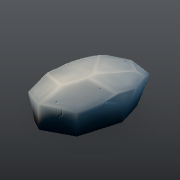
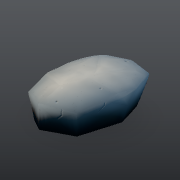
Rock presets for the new settings, and five new rocks
Existing rock presets are tuned for Blend, Dents, Layers and Overhang: Sharp
boulder stays crisp, River stone is as round as a rock gets, and Standing stone
and Low ledge get their hollows and bands. New presets: Round boulder, Overhang,
Cracked slab, Mossy rubble and Riverbank stones.

Rounder stones no longer draw a bright line along every edge, which was putting
the facets back in.

diff --git a/frontend/src/assets/trees/presets/index.ts b/frontend/src/assets/trees/presets/index.ts
@@ -307,17 +307,22 @@ const rockPresets: readonly TreePreset[] = [
     rock('Boulders', 'boulder', 'Boulder', 'Heavy, with stones at its feet', 401, {}),
     rock('Boulders', 'mossy-boulder', 'Mossy boulder', 'Old, with a green cap', 421, {width: 3.4, depth: 3, moss: 0.7, chunks: 3, faces: 0.8}),
     rock('Boulders', 'snowy-boulder', 'Snowy boulder', 'A cap of fresh snow', 422, {width: 3, height: 1.9, depth: 2.6, chunks: 3, faces: 0.7, moss: 0, snow: 0.7, palette: 'basalt'}),
-    rock('Boulders', 'split-boulder', 'Sharp boulder', 'Cut into hard faces', 403, {width: 2.8, height: 2.2, depth: 2.4, chunks: 2, faces: 0.8, cuts: 1, edges: 0.15, rounded: 0.25, moss: 0, palette: 'granite'}),
+    rock('Boulders', 'round-boulder', 'Round boulder', 'Worn smooth by time', 430, {width: 2.6, height: 1.8, depth: 2.3, chunks: 2, faces: 0.7, cuts: 0.3, edges: 1, rounded: 0.9, blend: 1, dents: 0.2, layers: 0.2, moss: 0.3}),
+    rock('Boulders', 'split-boulder', 'Sharp boulder', 'Cut into hard faces', 403, {width: 2.8, height: 2.2, depth: 2.4, chunks: 2, faces: 0.8, cuts: 1, edges: 0.15, rounded: 0.25, blend: 0.2, dents: 0, layers: 0, moss: 0, palette: 'granite'}),
     rock('Outcrops', 'grassy-outcrop', 'Grassy outcrop', 'Stepping up a slope', 410, {kind: 'outcrop', width: 6, height: 2.6, depth: 3.5, chunks: 5, moss: 0.85}),
-    rock('Outcrops', 'low-ledge', 'Low ledge', 'A long shelf of stone', 411, {kind: 'outcrop', width: 8, height: 1.3, depth: 3, chunks: 7, moss: 0.7, palette: 'slate'}),
+    rock('Outcrops', 'overhang', 'Overhang', 'Leaning out over its foot', 431, {kind: 'cliff', width: 7, height: 4, depth: 3.5, chunks: 8, faces: 0.5, overhang: 1, layers: 0.6, moss: 0.5}),
+    rock('Outcrops', 'low-ledge', 'Low ledge', 'A long shelf of stone', 411, {kind: 'outcrop', width: 8, height: 1.3, depth: 3, chunks: 7, moss: 0.7, layers: 0.6, palette: 'slate'}),
     rock('Stones', 'field-stone', 'Field stone', 'Knee high and blunt', 404, {width: 0.9, height: 0.5, depth: 0.7, chunks: 1, faces: 0.45, cuts: 0.5, moss: 0.3}),
     rock('Stones', 'damp-stone', 'Damp stone', 'Wet, with moss on its shady side', 413, {width: 1.1, height: 0.7, depth: 0.9, chunks: 2, faces: 0.5, cuts: 0.45, moss: 0.75, mossFrom: 'shade', wet: 0.5, palette: 'slate'}),
-    rock('Stones', 'river-stone', 'River stone', 'Worn nearly round', 405, {width: 0.7, height: 0.25, depth: 0.5, chunks: 1, faces: 0.7, cuts: 0.2, edges: 1, moss: 0, palette: 'slate'}),
-    rock('Stones', 'step-stone', 'Stepping stone', 'A flat slab for a path', 412, {width: 1, height: 0.14, depth: 0.8, chunks: 1, faces: 0.35, cuts: 0.45, moss: 0, variation: 0.3}),
-    rock('Stones', 'standing-stone', 'Standing stone', 'Tall and old', 406, {kind: 'pillar', width: 1, height: 3, depth: 0.7, chunks: 1, moss: 0.35}),
+    rock('Stones', 'river-stone', 'River stone', 'Worn nearly round', 405, {width: 0.7, height: 0.25, depth: 0.5, chunks: 1, faces: 0.7, cuts: 0.2, edges: 1, rounded: 0.85, blend: 1, dents: 0, layers: 0, moss: 0, palette: 'slate'}),
+    rock('Stones', 'step-stone', 'Stepping stone', 'A flat slab for a path', 412, {width: 1, height: 0.14, depth: 0.8, chunks: 1, faces: 0.35, cuts: 0.45, moss: 0, variation: 0.3, dents: 0.5, layers: 0}),
+    rock('Stones', 'cracked-slab', 'Cracked slab', 'Split across, lying low', 432, {width: 2.4, height: 0.45, depth: 1.8, chunks: 1, faces: 0.4, cuts: 0.4, cracks: 0.8, moss: 0, layers: 0.5, palette: 'slate'}),
+    rock('Stones', 'mossy-rubble', 'Mossy rubble', 'A heap of stones, green on the shady side', 433, {width: 1.6, height: 0.6, depth: 1.4, chunks: 3, faces: 0.6, rubble: 0.65, moss: 0.8, mossFrom: 'shade'}),
+    rock('Stones', 'riverbank-stones', 'Riverbank stones', 'Round and wet at the water’s edge', 434, {width: 1.6, height: 0.35, depth: 1.2, chunks: 4, faces: 0.7, cuts: 0.2, edges: 1, rounded: 0.9, blend: 0.2, dents: 0, rubble: 0.9, moss: 0, wet: 0.7, palette: 'slate'}),
+    rock('Stones', 'standing-stone', 'Standing stone', 'Tall and old', 406, {kind: 'pillar', width: 1, height: 3, depth: 0.7, chunks: 1, moss: 0.35, dents: 0.5, layers: 0.2}),
     rock('Cliffs', 'cliff-face', 'Cliff face', 'A wall of wedged stone', 407, {kind: 'cliff', width: 14, height: 10, depth: 6, chunks: 18, faces: 0.45, moss: 0.25}),
-    rock('Cliffs', 'sea-stack', 'Sea stack', 'A lone tall pillar', 408, {kind: 'pillar', width: 5, height: 11, depth: 4.5, chunks: 5, palette: 'slate'}),
-    rock('Cliffs', 'red-mesa', 'Red mesa', 'Flat topped and warm', 409, {kind: 'cliff', width: 16, height: 6, depth: 11, chunks: 14, moss: 0, palette: 'redrock'}),
+    rock('Cliffs', 'sea-stack', 'Sea stack', 'A lone tall pillar', 408, {kind: 'pillar', width: 5, height: 11, depth: 4.5, chunks: 5, layers: 0.7, palette: 'slate'}),
+    rock('Cliffs', 'red-mesa', 'Red mesa', 'Flat topped and warm', 409, {kind: 'cliff', width: 16, height: 6, depth: 11, chunks: 14, moss: 0, layers: 0.9, overhang: 0.15, palette: 'redrock'}),
 ]
 
 /**

diff --git a/frontend/src/assets/rocks/rock-mesh.ts b/frontend/src/assets/rocks/rock-mesh.ts
@@ -296,6 +296,8 @@ export function rockPainter(plan: RockPlan, chunks: readonly RockChunk[], surfac
     const stoneColour = new THREE.Color()
     const blend = clamp01(surface.blend ?? 0)
     const layers = clamp01(surface.layers ?? 0)
+    // A rounder stone has softer edges, so its painted edge line fades with it, or it would draw the facets back in.
+    const edgeLine = EDGE_LIGHT * (1 - clamp01((surface.rounded ?? 0) + (1 - (surface.rounded ?? 0)) * blend * BLEND_ROUNDING))
     const bandScale = (3 + layers * (BANDS - 3)) / plan.height
 
     const seamAt = (p: Vec3, chunkIndex: number) => {
@@ -338,7 +340,7 @@ export function rockPainter(plan: RockPlan, chunks: readonly RockChunk[], surfac
             // Bands of stone, tilted a little so they don't look ruled.
             (layers > 0 ? valueNoise3(0.5, (p[1] + p[0] * 0.06 + p[2] * 0.03) * bandScale, 0.5, seed + 11) * BAND_LIGHT * layers : 0) +
             // A painted light line along the top edges only.
-            (onEdge ? EDGE_LIGHT * clamp01(n[1] * 1.6) : 0)
+            (onEdge ? edgeLine * clamp01(n[1] * 1.6) : 0)
         const facing =
             mossFacing(n[0], n[1], n[2], weather.mossFrom) + patch * MOSS_PATCHES + fine * MOSS_PATCHES * 0.4 + (weather.mossFrom === 'sky' ? (height - 0.5) * 0.12 : 0)
         const mossy = surface.moss > 0 ? smoothstep(mossAbove - MOSS_SOFTNESS, mossAbove + MOSS_SOFTNESS, facing) : 0
